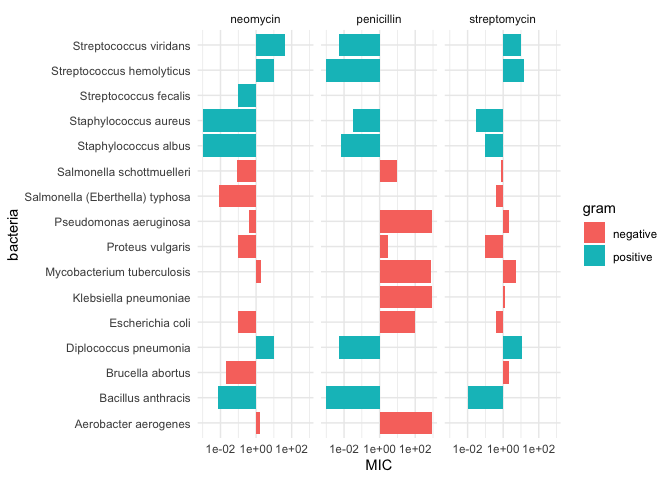
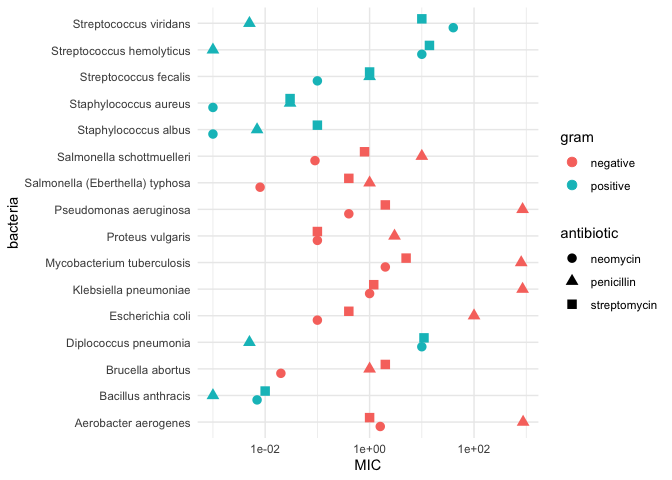
c05 resubmission

diff --git a/challenges/c05-antibiotics-assignment.md b/challenges/c05-antibiotics-assignment.md
@@ -153,16 +153,22 @@ In this visual you must show *all three* effectiveness values for *all
 positive or negative.
 
 ``` r
-df_antibiotics %>% 
+df_antibiotics_long <- df_antibiotics %>% 
   pivot_longer(
     names_to = "antibiotic",
     values_to = "MIC",
     cols = ends_with("in")
-  ) %>% 
-  ggplot(aes(x = MIC, y = bacteria, fill = gram)) + 
-  geom_col(position = "stack") +
-  scale_x_log10() +
-  facet_wrap(~antibiotic) +
+  ) 
+
+df_antibiotics_long %>% 
+  ggplot(aes(bacteria, MIC)) +
+  geom_point(
+    mapping = aes(shape = antibiotic, color = gram),
+    size = 3,
+    position = position_dodge(width = 0.5)
+  ) +
+  scale_y_log10() +
+  coord_flip() + 
   theme_minimal()
 ```
 
@@ -178,12 +184,7 @@ Note that your visual must be *qualitatively different* from *all* of
 your other visuals.
 
 ``` r
-df_antibiotics %>% 
-  pivot_longer(
-    names_to = "antibiotic",
-    values_to = "MIC",
-    cols = ends_with("in")
-  ) %>% 
+df_antibiotics_long %>% 
   ggplot(aes(x = antibiotic, y = MIC)) +
   geom_boxplot() +
   geom_point(aes(color = gram)) +
@@ -203,15 +204,15 @@ Note that your visual must be *qualitatively different* from *all* of
 your other visuals.
 
 ``` r
-df_antibiotics %>% 
-  pivot_longer(
-    names_to = "antibiotic",
-    values_to = "MIC",
-    cols = ends_with("in")
-  ) %>% 
-  ggplot(aes(x = antibiotic, y = bacteria, fill = gram)) + 
-  geom_tile(color = "black") +
-  scale_fill_manual(values = c("gray90", "steelblue")) +
+df_antibiotics_long %>% 
+  ggplot(aes(x = antibiotic, y = bacteria)) + 
+  geom_tile(
+    mapping = aes(fill = MIC)
+  ) + 
+  geom_text(aes(label = gram)) +
+  scale_fill_gradient(
+    trans = "log10"
+  ) +
   theme_minimal()
 ```
 
@@ -227,17 +228,14 @@ Note that your visual must be *qualitatively different* from *all* of
 your other visuals.
 
 ``` r
-df_antibiotics %>% 
-  pivot_longer(
-    names_to = "antibiotic",
-    values_to = "MIC",
-    cols = ends_with("in")
-  ) %>% 
-  ggplot(aes(x = antibiotic, y = MIC)) +
-  geom_violin() +
-  geom_point(aes(color = gram)) +
-  scale_y_log10() +
-  theme_minimal()
+df_antibiotics_long%>% 
+  ggplot( aes(x = antibiotic, y = MIC, color = antibiotic)) + 
+  geom_point() +
+  facet_wrap(~bacteria, scales = "free_y") +
+  labs(title = "Effectiveness of Antibiotics for Different Bacteria",
+       x = "Antibiotic",
+       y = "MIC") + 
+  scale_y_log10()
 ```
 
 ![](c05-antibiotics-assignment_files/figure-gfm/q1.4-1.png)<!-- -->
@@ -253,17 +251,11 @@ your other visuals.
 
 ``` r
 df_antibiotics %>% 
-  pivot_longer(
-    names_to = "antibiotic",
-    values_to = "MIC",
-    cols = ends_with("in")
-  ) %>%
-  group_by(antibiotic, gram) %>%
-  summarize(count = n(), .groups = "drop") %>%
-  ggplot(aes(x = antibiotic, y = count, fill = gram)) +
-  geom_bar(stat = "identity", position = "dodge") +
-  scale_fill_manual(values = c("blue", "red"), name = "Gram Status") +
-  theme_minimal()
+  ggplot(aes(bacteria, penicillin)) +
+  geom_bar(aes(fill = gram), stat = "identity") +
+  geom_hline(yintercept = 1) +
+  scale_y_log10() +
+  coord_flip()
 ```
 
 ![](c05-antibiotics-assignment_files/figure-gfm/q1.5-1.png)<!-- -->
